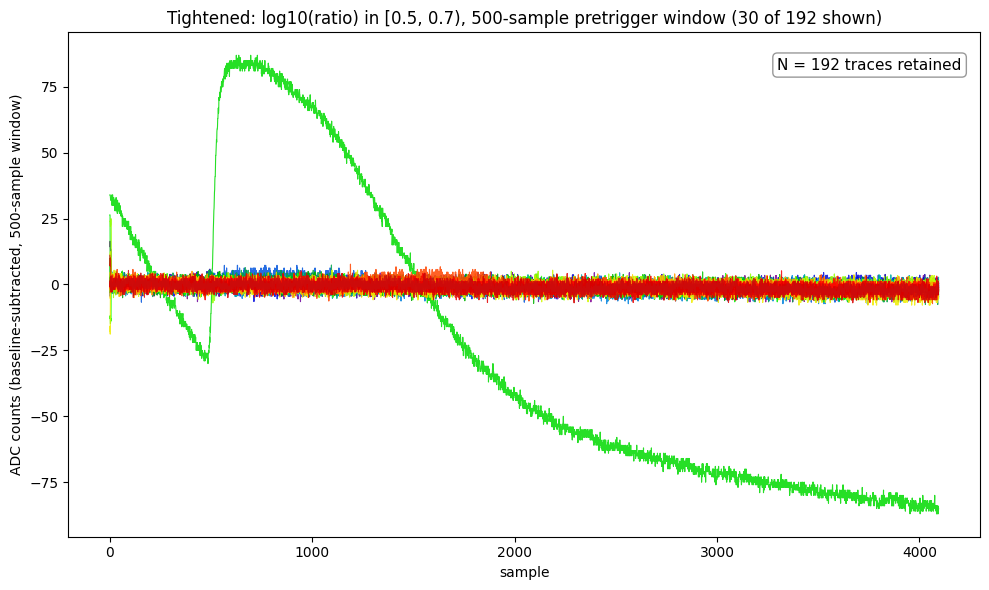
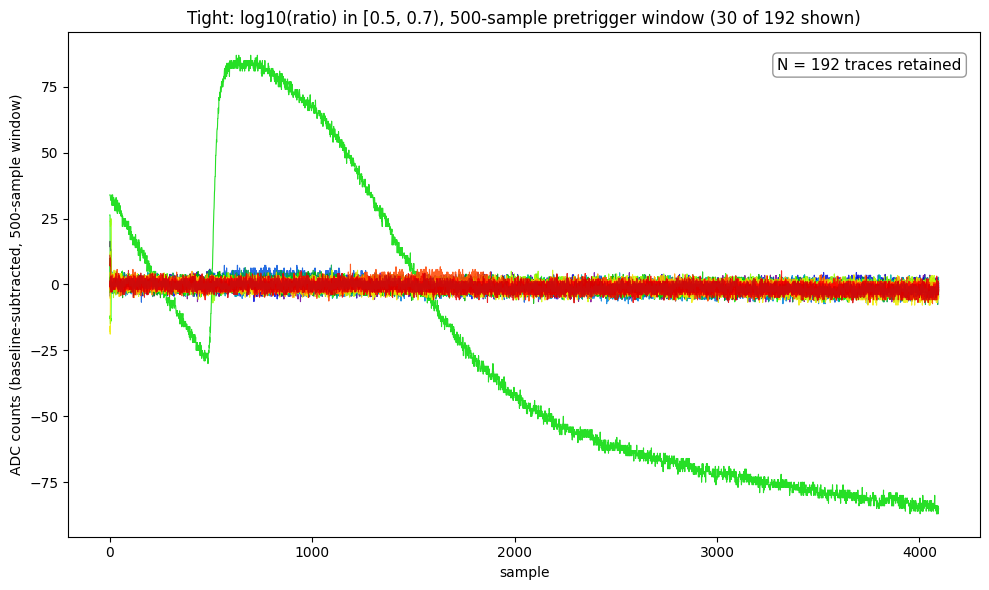
Site: rename Best/Tightened to Loose/Tight in the notes
Note 2's table, explanation, captions and figures (dump1_best.png ->
dump1_loose.png; loose/tight/tight_AI/rejected figures regenerated from the
re-run notebook so their titles match), plus the references in notes 1a, 4 and
6 and the index. The paragraph explaining Cut B vs Loose now says the names only
describe how wide the slice is, not that either is the ideal noise selection.
Notebook pins in notes 2 and 6 move to 8b0ab40. Note 5's "tightened" is a
different cut and is unchanged. Note 4's timeline records the rename.

Claude-Session: https://claude.ai/code/session_01GEvmMQzQo8z6ThTARD3NyC

Changed region(s): [[0.182, 0.0, 0.8797, 0.061]]

diff --git a/docs/notes/note-02-noise-selection.html b/docs/notes/note-02-noise-selection.html
@@ -17,7 +17,7 @@
 <h2>Code Repository</h2>
 <p>Notebooks and library files this note rests on, each pinned to the commit that produced the results below:</p>
 <ul class="repo">
-  <li><a href="https://github.com/villano-lab/NSDF-Data/blob/085aa3d/R76/analysis_notes/07221203_2025_dump1_noise.ipynb"><code>07221203_2025_dump1_noise.ipynb</code></a> &mdash; the main notebook for everything below. Pinned to <code>085aa3d</code>.</li>
+  <li><a href="https://github.com/villano-lab/NSDF-Data/blob/8b0ab40/R76/analysis_notes/07221203_2025_dump1_noise.ipynb"><code>07221203_2025_dump1_noise.ipynb</code></a> &mdash; the main notebook for everything below. Pinned to <code>8b0ab40</code>.</li>
   <li><a href="https://github.com/villano-lab/NSDF-Data/blob/c892af4/R76/analysis_notes/dump1_noise_pulses.ipynb"><code>dump1_noise_pulses.ipynb</code></a> &mdash; the original first-pass notebook, superseded but kept for history. Pinned to <code>c892af4</code>.</li>
   <li><a href="https://github.com/villano-lab/NSDF-Data/tree/085aa3d/python"><code>python/</code></a> &mdash; the pulse library the notebook now uses (see <a href="note-01a-pulse-library-structure.html">Note 1a</a>). Pinned to <code>085aa3d</code>.</li>
 </ul>
@@ -95,28 +95,28 @@
     <tr><td>Branch 2</td><td>500</td><td>[0.5, 1.4)</td><td class="num">1012</td></tr>
     <tr><td>&nbsp;&nbsp;shoulder</td><td>500</td><td>[1.0, 1.4)</td><td class="num">268</td></tr>
     <tr><td>&nbsp;&nbsp;high tail</td><td>500</td><td>&ge; 2.0</td><td class="num">346</td></tr>
-    <tr><td>&ldquo;Best&rdquo;</td><td>500</td><td>[0.5, 1.0)</td><td class="num">744</td></tr>
-    <tr><td>Tightened</td><td>500</td><td>[0.5, 0.7)</td><td class="num">192</td></tr>
+    <tr><td>Loose</td><td>500</td><td>[0.5, 1.0)</td><td class="num">744</td></tr>
+    <tr><td>Tight</td><td>500</td><td>[0.5, 0.7)</td><td class="num">192</td></tr>
   </tbody>
 </table>
 </div>
 
-<p>Cut B and &ldquo;Best&rdquo; cover the same <code>log10(ratio)</code> range, [0.5, 1.0), but on different pretrigger windows: Cut B uses 1000 samples (892 traces), &ldquo;Best&rdquo; uses 500 (744 traces). &ldquo;Best&rdquo; is the name given to the narrower core of Branch 2&rsquo;s range: it stops short of the shoulder, [1.0, 1.4), where contamination starts creeping in, so it is the part of the clean hump furthest from both failure modes. It is the cut now in the library as <code>excursion_band_loose</code>.</p>
+<p>Cut B and Loose cover the same <code>log10(ratio)</code> range, [0.5, 1.0), but on different pretrigger windows: Cut B uses 1000 samples (892 traces), Loose uses 500 (744 traces). Within Branch 2, <strong>Loose</strong> is the wider of two narrowed cuts: it stops short of the shoulder, [1.0, 1.4), where contamination starts creeping in, but keeps the most traces. <strong>Tight</strong>, [0.5, 0.7), is narrower still and cleaner, at the cost of statistics. They are the library&rsquo;s <code>excursion_band_loose</code> and <code>excursion_band</code>. Neither is claimed to be the ideal noise selection; the names only say how wide the slice is.</p>
 
 <div class="grid2">
   <figure><img src="img/dump1_branch2.png" alt="Branch 2 example traces"><figcaption>Branch 2, [0.5, 1.4): 1012 traces (30 shown).</figcaption></figure>
   <figure><img src="img/dump1_shoulder.png" alt="Branch 2 shoulder example traces"><figcaption>Shoulder, [1.0, 1.4): contamination starts creeping in.</figcaption></figure>
   <figure><img src="img/dump1_high_tail.png" alt="Branch 2 high tail example traces"><figcaption>High tail, &ge; 2.0: dominated by real pulses.</figcaption></figure>
-  <figure><img src="img/dump1_best.png" alt="Best noise examples, log10(ratio) in [0.5, 1.0), 500-sample window"><figcaption>&ldquo;Best&rdquo;, [0.5, 1.0): 744 traces (30 shown), the core of the clean hump.</figcaption></figure>
-  <figure><img src="img/dump1_tight.png" alt="Tightened cut example traces"><figcaption>Tightened, [0.5, 0.7): 192 traces, the cleanest slice.</figcaption></figure>
+  <figure><img src="img/dump1_loose.png" alt="Loose cut example traces, log10(ratio) in [0.5, 1.0), 500-sample window"><figcaption>Loose, [0.5, 1.0): 744 traces (30 shown); stops short of the contaminated shoulder.</figcaption></figure>
+  <figure><img src="img/dump1_tight.png" alt="Tight cut example traces"><figcaption>Tight, [0.5, 0.7): 192 traces, the cleanest slice.</figcaption></figure>
 </div>
 
-<p>Moving down in <code>ratio</code> makes the selection cleaner: contamination increases toward the shoulder, and the high tail is real pulses. The tightened slice is the cleanest, but even it lets a few real pulses through (13 of its 192, found in <a href="note-06-ai-pulse-veto-archive.html">Note 6</a>).</p>
+<p>Moving down in <code>ratio</code> makes the selection cleaner: contamination increases toward the shoulder, and the high tail is real pulses. The Tight slice is the cleanest, but even it lets a few real pulses through (13 of its 192, found in <a href="note-06-ai-pulse-veto-archive.html">Note 6</a>).</p>
 
 <h2>Status / Next Steps</h2>
 <ul>
-  <li>The tightened cut is now a library function (<code>excursion_band</code>, with <code>excursion_band_loose</code> for [0.5, 1.0)); see <a href="note-01a-pulse-library-structure.html">Note 1a</a>.</li>
-  <li>The 13 real pulses in the tightened selection are removed by a pulse-shape veto in <a href="note-06-ai-pulse-veto-archive.html">Note 6</a>.</li>
+  <li>The Tight cut is now a library function (<code>excursion_band</code>), and the Loose cut is <code>excursion_band_loose</code>; see <a href="note-01a-pulse-library-structure.html">Note 1a</a>.</li>
+  <li>The 13 real pulses in the Tight selection are removed by a pulse-shape veto in <a href="note-06-ai-pulse-veto-archive.html">Note 6</a>.</li>
   <li>The rise-time hypothesis (Branch 1) is still unverified; <code>rise_sample</code> needs checking against noisy and multi-peak traces first.</li>
   <li>Everything here is one detector and one channel of one dump. Other channels and other dumps have not been done (Channel 2 was 100% dead in this dump, so it needs a separate look).</li>
   <li>The cut boundaries (0.5, 0.7, 1.0, 1.4) were chosen by looking at plots, not derived from a model of the noise.</li>

diff --git a/docs/notes/note-06-ai-pulse-veto-archive.html b/docs/notes/note-06-ai-pulse-veto-archive.html
@@ -16,23 +16,23 @@
 
 <h2>Code Repository</h2>
 <ul class="repo">
-  <li><a href="https://github.com/villano-lab/NSDF-Data/blob/085aa3d/R76/analysis_notes/07221203_2025_dump1_noise.ipynb"><code>07221203_2025_dump1_noise.ipynb</code></a> &mdash; the &ldquo;Tightened, AI-filtered&rdquo;, &ldquo;What the AI filter removes&rdquo; and &ldquo;Archive&rdquo; sections at the end. Pinned to <code>085aa3d</code>.</li>
+  <li><a href="https://github.com/villano-lab/NSDF-Data/blob/8b0ab40/R76/analysis_notes/07221203_2025_dump1_noise.ipynb"><code>07221203_2025_dump1_noise.ipynb</code></a> &mdash; the &ldquo;Tight, AI-filtered&rdquo;, &ldquo;What the AI filter removes&rdquo; and &ldquo;Archive&rdquo; sections at the end. Pinned to <code>8b0ab40</code>.</li>
   <li><a href="https://github.com/villano-lab/NSDF-Data/blob/b1b88ee/R76/analysis_notes/good_pulses_overlay.ipynb"><code>good_pulses_overlay.ipynb</code></a> &mdash; the three-cut PSD comparison. Pinned to <code>b1b88ee</code>.</li>
   <li><a href="https://github.com/villano-lab/NSDF-Data/blob/c3d6754/python/pulse_cuts.py"><code>python/pulse_cuts.py</code></a> and <a href="https://github.com/villano-lab/NSDF-Data/blob/c3d6754/python/pulse_quantities.py"><code>pulse_quantities.py</code></a> &mdash; <code>excursion_band_AI</code>, <code>looks_like_pulse</code>, <code>excursion_duration</code>. Pinned to <code>c3d6754</code>.</li>
   <li><a href="https://github.com/villano-lab/NSDF-Data/blob/894ef9d/python/pulse_archive.py"><code>python/pulse_archive.py</code></a> and <a href="https://github.com/villano-lab/NSDF-Data/tree/085aa3d/archives"><code>archives/</code></a> &mdash; the HDF5 archive. Pinned to <code>894ef9d</code> and <code>085aa3d</code>.</li>
 </ul>
 
 <h2>Motivation</h2>
-<p>The tightened noise cut of <a href="note-02-noise-selection.html">Note 2</a> (<code>log10(ratio)</code> in [0.5, 0.7), 500-sample window) keeps 192 of 1517 traces and is the cleanest slice found, but a few real pulses still get through. <code>excursion_band_AI</code> is the same cut with a second criterion added: remove whatever looks like a real pulse. The name is literal: the pulse judgment is a heuristic worked out with an AI assistant, not a validated physical criterion, and the cut is tagged <code>under_development</code>.</p>
+<p>The Tight noise cut of <a href="note-02-noise-selection.html">Note 2</a> (<code>log10(ratio)</code> in [0.5, 0.7), 500-sample window) keeps 192 of 1517 traces and is the cleanest slice found, but a few real pulses still get through. <code>excursion_band_AI</code> is the same cut with a second criterion added: remove whatever looks like a real pulse. The name is literal: the pulse judgment is a heuristic worked out with an AI assistant, not a validated physical criterion, and the cut is tagged <code>under_development</code>.</p>
 
 <h2>The pulse-shape criterion</h2>
 <p>A real pulse rises and then decays slowly, so it stays near its own peak for a long time. Noise does not. The quantity <code>excursion_duration</code> is the <strong>longest run of <em>consecutive</em> post-pretrigger samples</strong> whose deviation is at least half of the trace&rsquo;s own <code>dev</code>. <code>looks_like_pulse</code> flags a trace when that run is at least <code>min_duration</code> samples.</p>
 
 <h3>A first version that failed</h3>
-<p>The first attempt counted the <em>total</em> number of samples above half of <code>dev</code>. On real data it flagged all 192 traces of the tightened cut as pulses. With ~2500 post-pretrigger samples and <code>dev</code> only 3&ndash;5 times the noise standard deviation, half of <code>dev</code> is just 1.5&ndash;2.5 sigma, which ordinary Gaussian noise exceeds in a few percent of samples. Requiring the samples to be <em>consecutive</em> removes that effect, since the chance of a long unbroken run in noise falls off geometrically.</p>
+<p>The first attempt counted the <em>total</em> number of samples above half of <code>dev</code>. On real data it flagged all 192 traces of the Tight cut as pulses. With ~2500 post-pretrigger samples and <code>dev</code> only 3&ndash;5 times the noise standard deviation, half of <code>dev</code> is just 1.5&ndash;2.5 sigma, which ordinary Gaussian noise exceeds in a few percent of samples. Requiring the samples to be <em>consecutive</em> removes that effect, since the chance of a long unbroken run in noise falls off geometrically.</p>
 
 <h3>Choosing <code>min_duration</code></h3>
-<p>With the consecutive-run definition, the 192 traces of the tightened cut split cleanly (Detector 0 / Channel 0, dump 1, 500-sample window):</p>
+<p>With the consecutive-run definition, the 192 traces of the Tight cut split cleanly (Detector 0 / Channel 0, dump 1, 500-sample window):</p>
 <ul>
   <li><strong>179 traces</strong> have a longest run of 2&ndash;25 samples (median 7);</li>
   <li><strong>13 traces</strong> have runs of 168 to 3564 samples (168, 225, 919, 1699, 1940, 2055, 2079, 2768, 2875, 3300, 3521, 3538, 3564);</li>

diff --git a/docs/notes/note-01a-pulse-library-structure.html b/docs/notes/note-01a-pulse-library-structure.html
@@ -105,8 +105,8 @@ power = pq.power_spectrum(op.baseline_subtract(pulses[mask], config), config)</c
     <tr><td><code>active</code></td><td><code>~dead_channel</code></td><td><span class="status done">done</span></td></tr>
     <tr><td><code>quiet_baseline</code></td><td><code>bstd</code> below its own percentile across the batch; dead channels never pass</td><td><span class="status done">done</span></td></tr>
     <tr><td><code>ratio_band</code></td><td>Linear <code>ratio</code> in <code>[low, high)</code>, either bound optional (generic)</td><td><span class="status done">done</span></td></tr>
-    <tr><td><code>excursion_band</code></td><td><code>log10(ratio)</code> in <code>[0.5, 0.7)</code> by default: the tightened cut of <a href="note-02-noise-selection.html">Note 2</a></td><td><span class="status done">done</span></td></tr>
-    <tr><td><code>excursion_band_loose</code></td><td><code>log10(ratio)</code> in <code>[0.5, 1.0)</code>: the &ldquo;best&rdquo; cut of Note 2</td><td><span class="status done">done</span></td></tr>
+    <tr><td><code>excursion_band</code></td><td><code>log10(ratio)</code> in <code>[0.5, 0.7)</code> by default: the Tight cut of <a href="note-02-noise-selection.html">Note 2</a></td><td><span class="status done">done</span></td></tr>
+    <tr><td><code>excursion_band_loose</code></td><td><code>log10(ratio)</code> in <code>[0.5, 1.0)</code>: the Loose cut of Note 2</td><td><span class="status done">done</span></td></tr>
     <tr><td><code>excursion_below_percentile</code></td><td><code>ratio</code> below its own percentile across the batch</td><td><span class="status under-dev">under development</span></td></tr>
     <tr><td><code>looks_like_pulse</code></td><td><code>excursion_duration</code> at or above <code>min_duration</code> (default 50)</td><td><span class="status under-dev">under development</span></td></tr>
     <tr><td><code>excursion_band_AI</code></td><td><code>excursion_band</code> with <code>looks_like_pulse</code> traces removed (<a href="note-06-ai-pulse-veto-archive.html">Note 6</a>)</td><td><span class="status under-dev">under development</span></td></tr>
@@ -152,7 +152,7 @@ power = pq.power_spectrum(op.baseline_subtract(pulses[mask], config), config)</c
     <tr><td><code>excursion_band_AI</code></td><td><code>pulse_cuts.py</code></td><td><code>excursion_band</code> plus the <code>looks_like_pulse</code> veto; both are judgment calls. Check what it removes before trusting it on a new dataset.</td></tr>
     <tr><td><code>excursion_below_percentile</code></td><td><code>pulse_cuts.py</code></td><td>Matches the original &ldquo;good noise&rdquo; cut, which is biased toward contaminated-baseline traces when used alone; combine it with <code>quiet_baseline</code>.</td></tr>
     <tr><td><code>looks_like_pulse</code></td><td><code>pulse_cuts.py</code></td><td>A judgment call, not a validated physical criterion. The default <code>min_duration = 50</code> was picked by eye from a gap in one dataset (179 traces at &le; 25 samples, 13 at &ge; 168, none between).</td></tr>
-    <tr><td><code>excursion_duration</code></td><td><code>pulse_quantities.py</code></td><td>Devised for the pulse veto and checked on one dataset only. Deliberately uses the longest <em>contiguous</em> run: a plain count of samples above half-maximum flagged every trace in the tightened cut.</td></tr>
+    <tr><td><code>excursion_duration</code></td><td><code>pulse_quantities.py</code></td><td>Devised for the pulse veto and checked on one dataset only. Deliberately uses the longest <em>contiguous</em> run: a plain count of samples above half-maximum flagged every trace in the Tight cut.</td></tr>
     <tr><td><code>rise_sample</code></td><td><code>pulse_quantities.py</code></td><td>Half-maximum crossing heuristic, used in one exploratory analysis (Cut A rise time, <a href="note-02-noise-selection.html">Note 2</a>). Not yet checked against noisy or multi-peak traces.</td></tr>
   </tbody>
 </table></div>

diff --git a/docs/notes/note-04-pulse-library.html b/docs/notes/note-04-pulse-library.html
@@ -32,6 +32,7 @@
     <tr><td>2026-09-22</td><td><code>b23b9ed</code></td><td>Library created: config, quantities, cuts, operations, I/O and the status-tagging mechanism; the three notebooks refactored to use it. Two functions (<code>rise_sample</code>, <code>excursion_below_percentile</code>) tagged under development.</td><td class="num">20</td><td class="num">29</td></tr>
     <tr><td>2026-09-23</td><td><code>c3d6754</code></td><td>Named log-ratio cuts <code>excursion_band</code> and <code>excursion_band_loose</code> added (from <a href="note-02-noise-selection.html">Note 2</a>), with <code>log_excursion_ratio</code>. Pulse veto added: <code>excursion_duration</code>, <code>looks_like_pulse</code>, <code>excursion_band_AI</code> (<a href="note-06-ai-pulse-veto-archive.html">Note 6</a>). Old generic <code>excursion_band</code> renamed <code>ratio_band</code>.</td><td class="num">26</td><td class="num">35</td></tr>
     <tr><td>2026-09-23</td><td><code>894ef9d</code></td><td>HDF5 good-event archive added (<code>pulse_archive.py</code>: save, load, list).</td><td class="num">29</td><td class="num">40</td></tr>
+    <tr><td>2026-09-23</td><td><code>8b0ab40</code></td><td>Branch 2 cuts renamed <strong>Loose</strong> (<code>excursion_band_loose</code>, [0.5, 1.0)) and <strong>Tight</strong> (<code>excursion_band</code>, [0.5, 0.7)) in the notebook, plots and docstrings, replacing &ldquo;Best&rdquo; and &ldquo;Tightened&rdquo;. No behavior change.</td><td class="num">29</td><td class="num">40</td></tr>
   </tbody>
 </table></div>
 <p>Function counts are status-tagged functions (<code>PulseConfig</code> and the <code>status</code> machinery are not counted). The current inventory, 24 done and 5 under development, is in <a href="note-01a-pulse-library-structure.html">Note 1a</a>.</p>
@@ -51,7 +52,7 @@
 <p>One test began life with a wrong expected value and, once corrected, became a regression test for the pretrigger-contamination effect of <a href="note-02-noise-selection.html">Note 2</a>: a spike confined to the pretrigger window drags the baseline mean far enough that flat post-trigger samples end up looking like the largest excursion.</p>
 
 <h3>Checks on real data</h3>
-<p>The new cuts were checked against real Detector 0 / Channel 0 data, not just synthetic tests. <code>excursion_band</code> and <code>excursion_band_loose</code> reproduced the notebook&rsquo;s inline masks exactly (192 and 744 of 1517). The first version of <code>excursion_duration</code> passed its unit test but failed on real data, flagging every trace of the tightened cut as a pulse, and was replaced by the consecutive-run definition (details in Note 6).</p>
+<p>The new cuts were checked against real Detector 0 / Channel 0 data, not just synthetic tests. <code>excursion_band</code> and <code>excursion_band_loose</code> reproduced the notebook&rsquo;s inline masks exactly (192 and 744 of 1517). The first version of <code>excursion_duration</code> passed its unit test but failed on real data, flagging every trace of the Tight cut as a pulse, and was replaced by the consecutive-run definition (details in Note 6).</p>
 
 <h2>Naming change on 2026-09-23</h2>
 <p>The original generic <code>excursion_band(low, high)</code> thresholded the linear ratio. To free the name for the specific <code>log10(ratio)</code> cut, the generic function was renamed <code>ratio_band</code>. Its one caller, the <code>ratio &gt; 9</code> cut in <code>07221203_2025_dump2_pulse.ipynb</code> (<a href="note-05-triggered-pulses.html">Note 5</a>), was updated and re-run to confirm it still selects the same 10 traces. An early attempt to edit that notebook programmatically silently did nothing (the cell source was a single string, not a list of lines) and was only caught because the re-run failed.</p>

diff --git a/docs/index.html b/docs/index.html
@@ -73,7 +73,7 @@
       <td class="date">23 Sept 2026</td>
       <td>Anthony</td>
       <td>excursion_band_AI: removing pulse-like traces from the noise selection, and the good_noise archive</td>
-      <td class="desc">Adds a pulse-shape veto to the tightened cut (192 &rarr; 179 traces). The 13 removed traces are unambiguous pulses or drifts, and the mean PSD drops by a factor of ~20&ndash;165 below ~2 kHz. The selection is archived in an HDF5 file.</td>
+      <td class="desc">Adds a pulse-shape veto to the Tight cut (192 &rarr; 179 traces). The 13 removed traces are unambiguous pulses or drifts, and the mean PSD drops by a factor of ~20&ndash;165 below ~2 kHz. The selection is archived in an HDF5 file.</td>
       <td class="kw">excursion_band_AI, looks_like_pulse, HDF5 archive, PSD, under development</td>
       <td><span class="status in-progress">In progress</span></td>
       <td></td>
